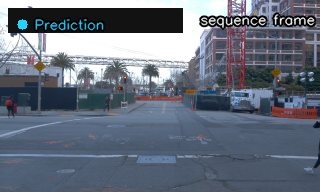
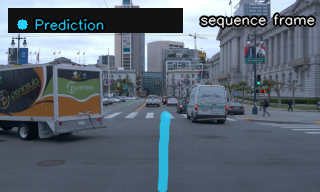
Update playable demo video and README

diff --git a/README.md b/README.md
@@ -11,6 +11,7 @@ The repository is intentionally focused: one clean Waymo camera + LiDAR pipeline
 [![Play the prediction overlay demo](assets/demo/prediction_overlay_first_frame.png)](https://nazar-110.github.io/vision-route-waymo/docs/prediction-overlay.html)
 
 - [Play the prediction overlay demo](https://nazar-110.github.io/vision-route-waymo/docs/prediction-overlay.html)
+- [Play/download the 8-second H.264 MP4 demo](https://raw.githubusercontent.com/nazar-110/vision-route-waymo/main/assets/demo/prediction_overlay.mp4)
 - [Bird's-eye-view trajectory comparison](assets/demo/bev_comparison.png)
 - [Demo metrics JSON](assets/demo/sequence_metrics.json)
 
@@ -124,7 +125,7 @@ outputs/video_gallery/waymo_sequence_prediction_only_first_frame.png
 outputs/video_gallery/waymo_sequence_bev.png
 ```
 
-Full generated videos and screenshots are not committed because they are derived from Waymo dataset content and can be regenerated locally after accepting Waymo's terms. The one-second H.264 preview under `assets/demo/` is an intentional lightweight exception.
+Full generated videos and screenshots are not committed to this repo because they are derived from Waymo dataset content and can be regenerated locally after accepting Waymo's terms. The small files in `assets/demo/` are the only committed demo extract.
 
 ## Predict On A New Waymo Segment
 
@@ -205,9 +206,9 @@ Do not commit:
 - `outputs/waymo_multimodal/`
 - `outputs/video_gallery/`
 - `outputs/predictions/`
-- `*.tfrecord`, `*.pt`, other generated `*.mp4` files, `__pycache__/`, `.pytest_cache/`
+- `*.tfrecord`, `*.pt`, generated `*.mp4` files outside `assets/demo/`, `__pycache__/`, `.pytest_cache/`
 
-The `.gitignore` keeps those files out of git while explicitly allowing the small `assets/demo/prediction_overlay.mp4` preview.
+The `.gitignore` keeps those files out of git while explicitly allowing the curated demo assets under `assets/demo/`.
 
 ## Dataset And Attribution
 

diff --git a/assets/demo/README.md b/assets/demo/README.md
@@ -4,7 +4,7 @@ This folder contains a small demo extract generated from a Waymo Open Dataset Pe
 
 Included files:
 
-- `prediction_overlay.mp4`: short prediction-only route overlay clip
+- `prediction_overlay.mp4`: 8-second H.264 baseline, `yuv420p`, fast-start prediction-only route overlay clip
 - `prediction_overlay_first_frame.png`: first-frame camera overlay preview
 - `bev_comparison.png`: bird's-eye-view trajectory plot
 - `sequence_metrics.json`: metrics for the short rendered sequence